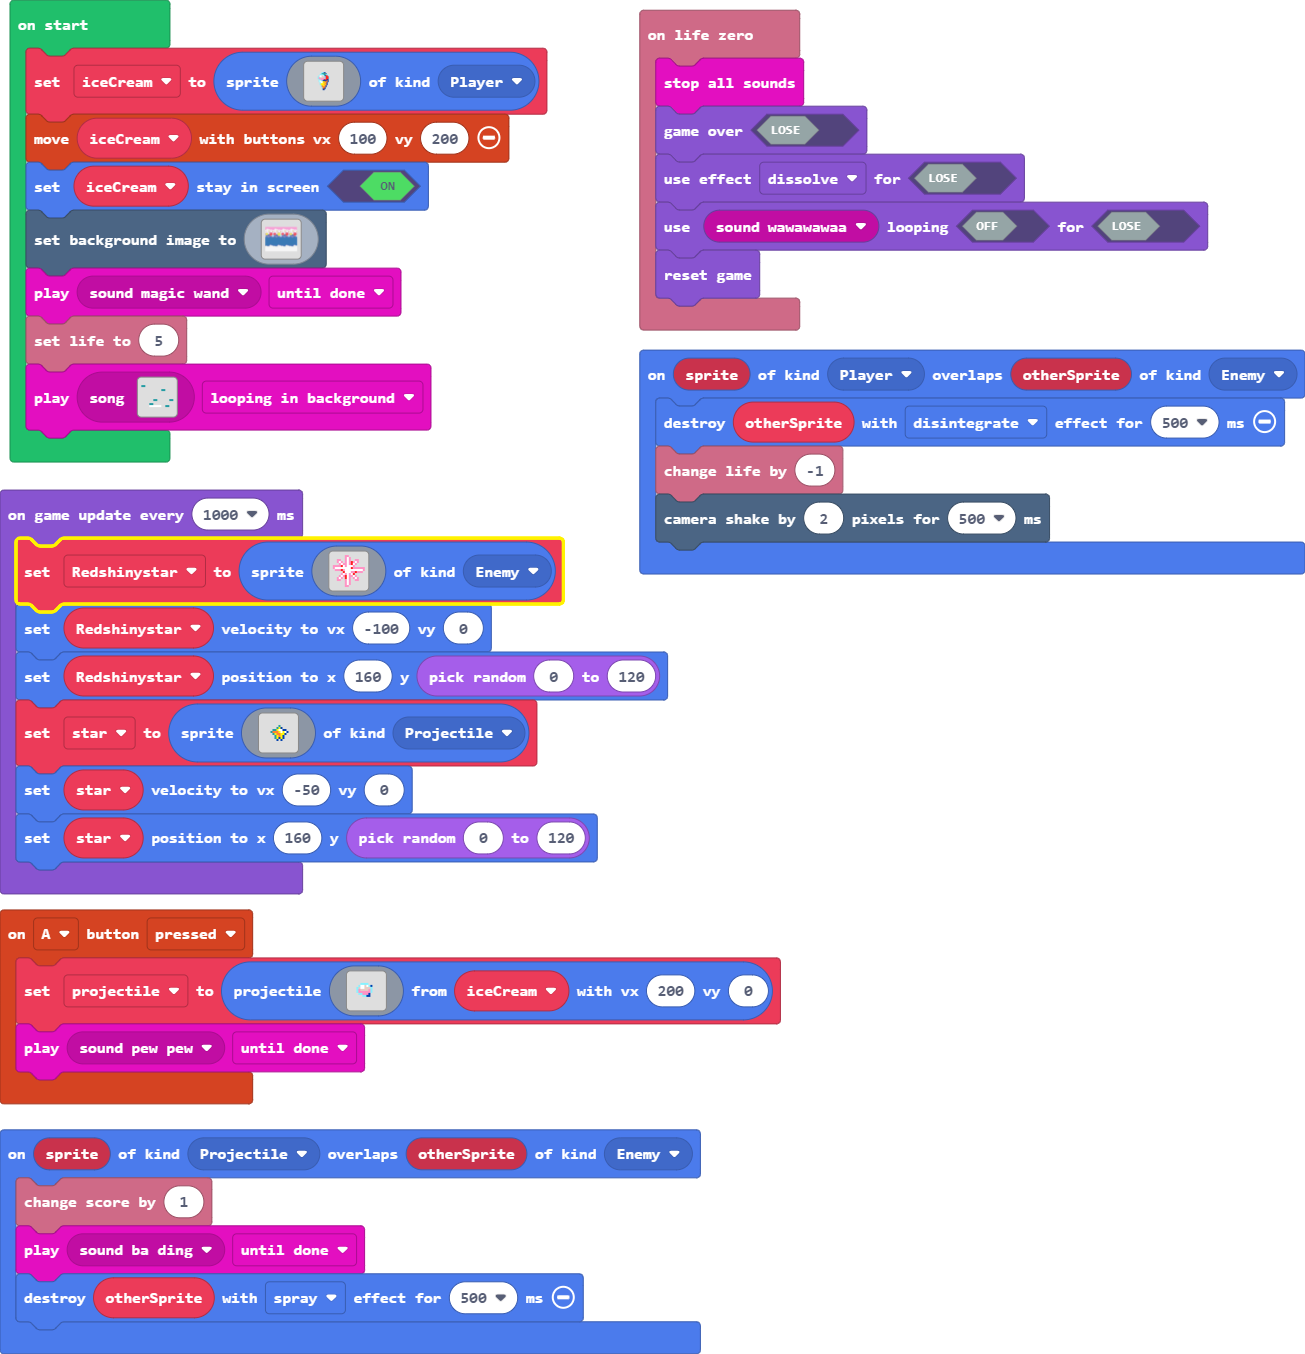
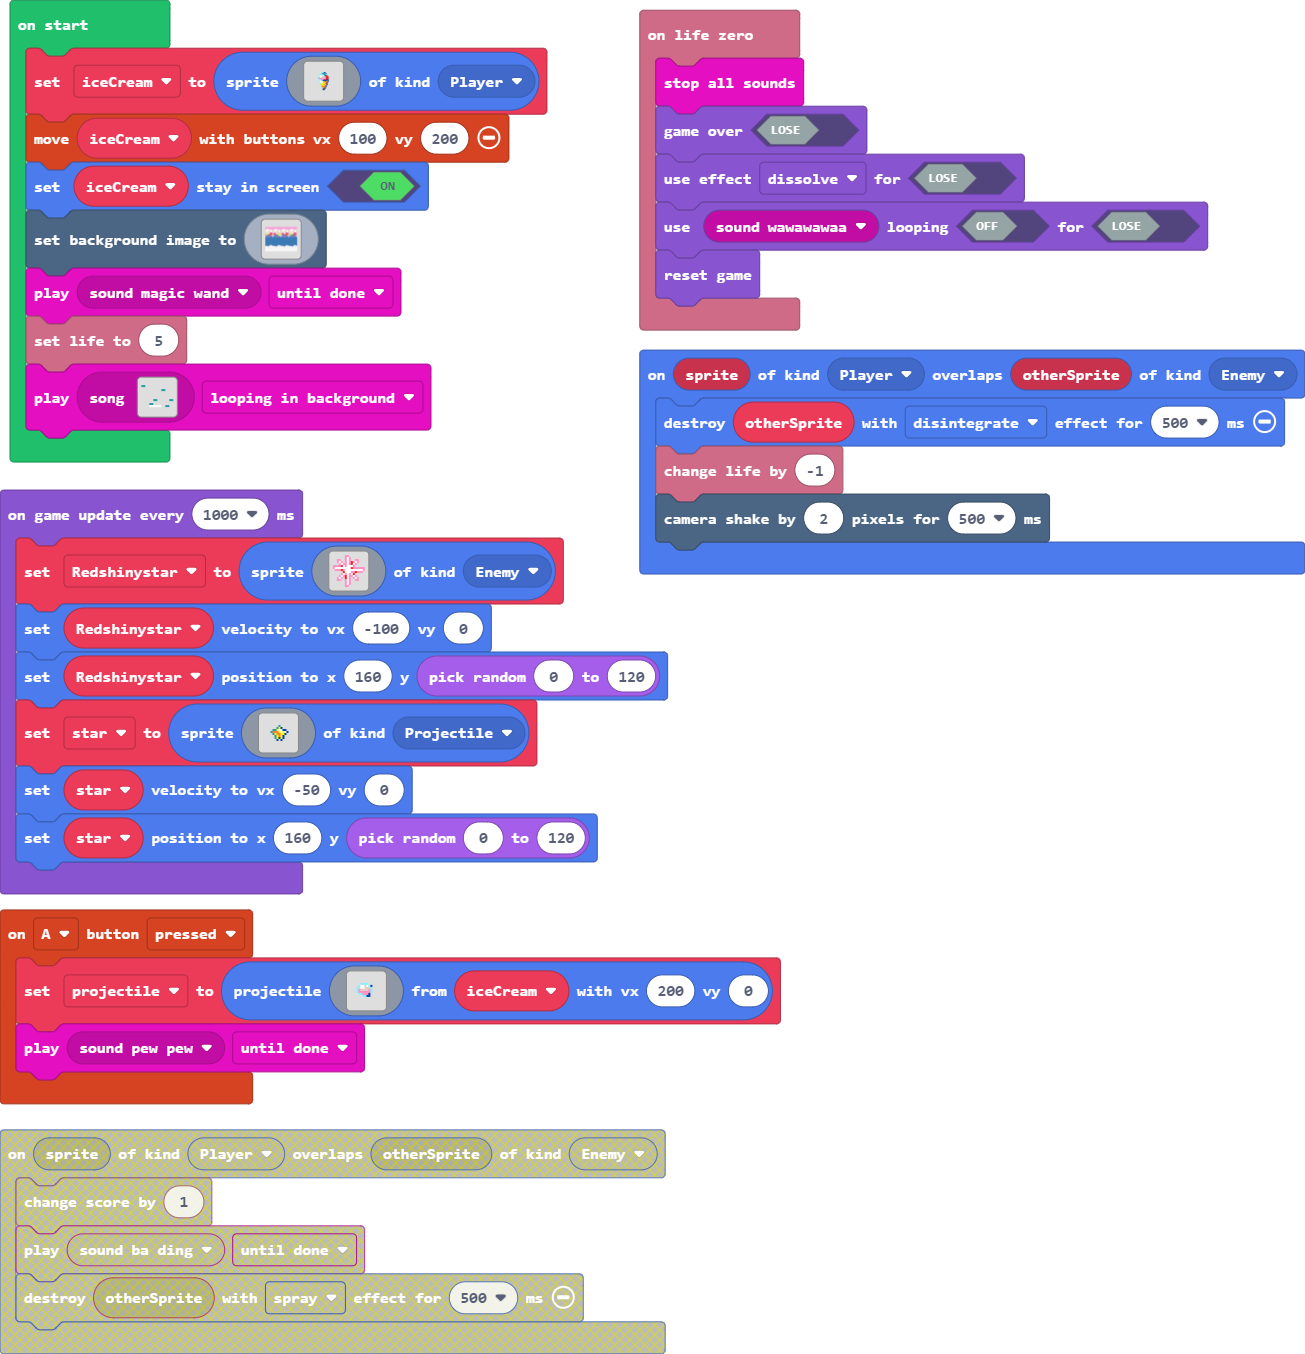
changed from projectile to player

Changed region(s): [[0.0, 0.8065, 0.5517, 1.0], [0.0, 0.4032, 0.0307, 0.4343]]

diff --git a/main.ts b/main.ts
@@ -26,11 +26,6 @@ info.onLifeZero(function () {
     game.setGameOverPlayable(false, music.melodyPlayable(music.wawawawaa), false)
     game.reset()
 })
-sprites.onOverlap(SpriteKind.Projectile, SpriteKind.Enemy, function (sprite, otherSprite) {
-    info.changeScoreBy(1)
-    music.play(music.melodyPlayable(music.baDing), music.PlaybackMode.UntilDone)
-    sprites.destroy(otherSprite, effects.spray, 500)
-})
 sprites.onOverlap(SpriteKind.Player, SpriteKind.Enemy, function (sprite, otherSprite) {
     sprites.destroy(otherSprite, effects.disintegrate, 500)
     info.changeLifeBy(-1)
